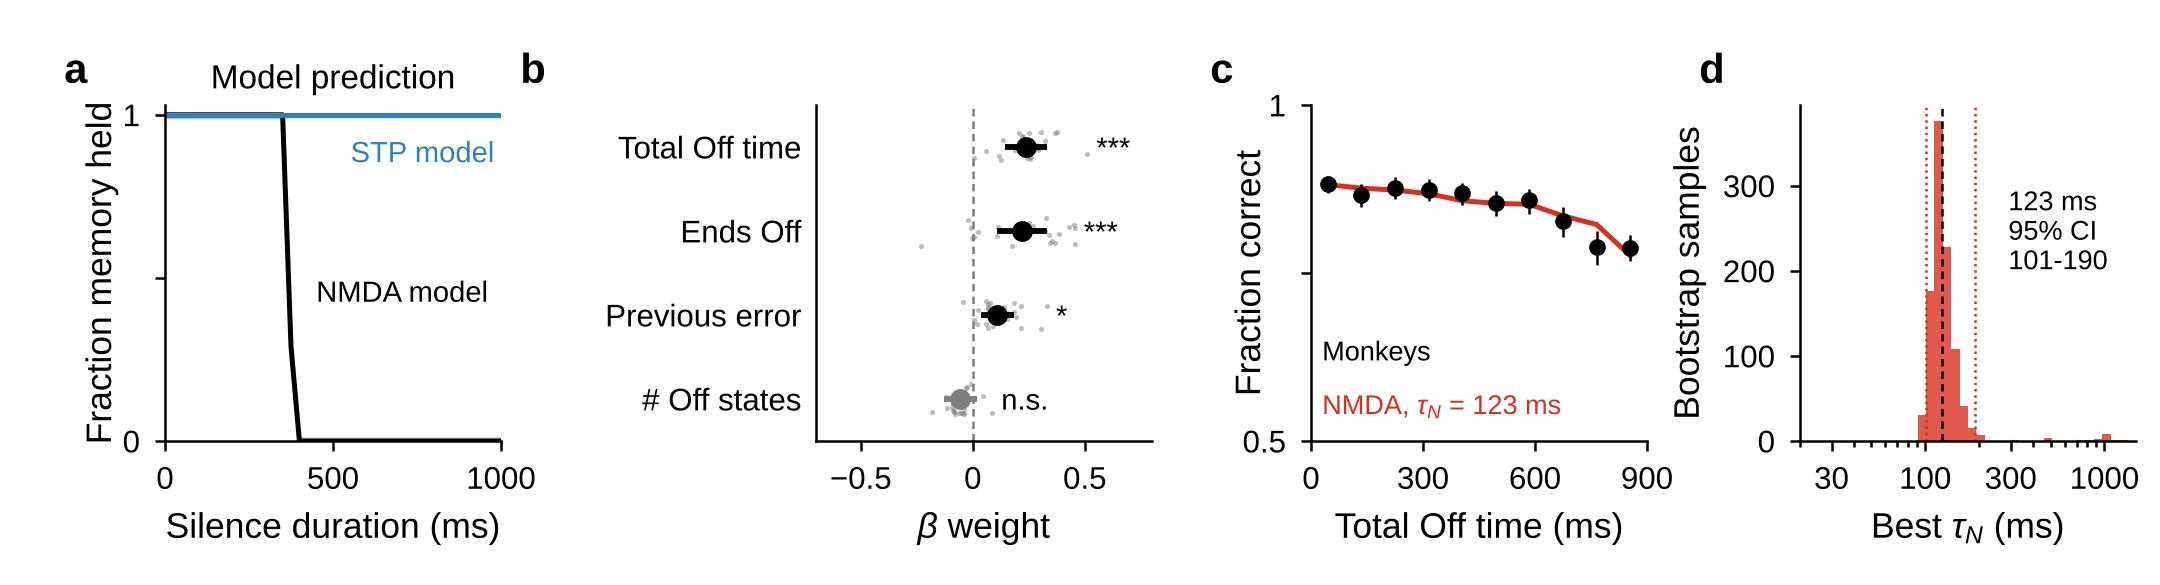
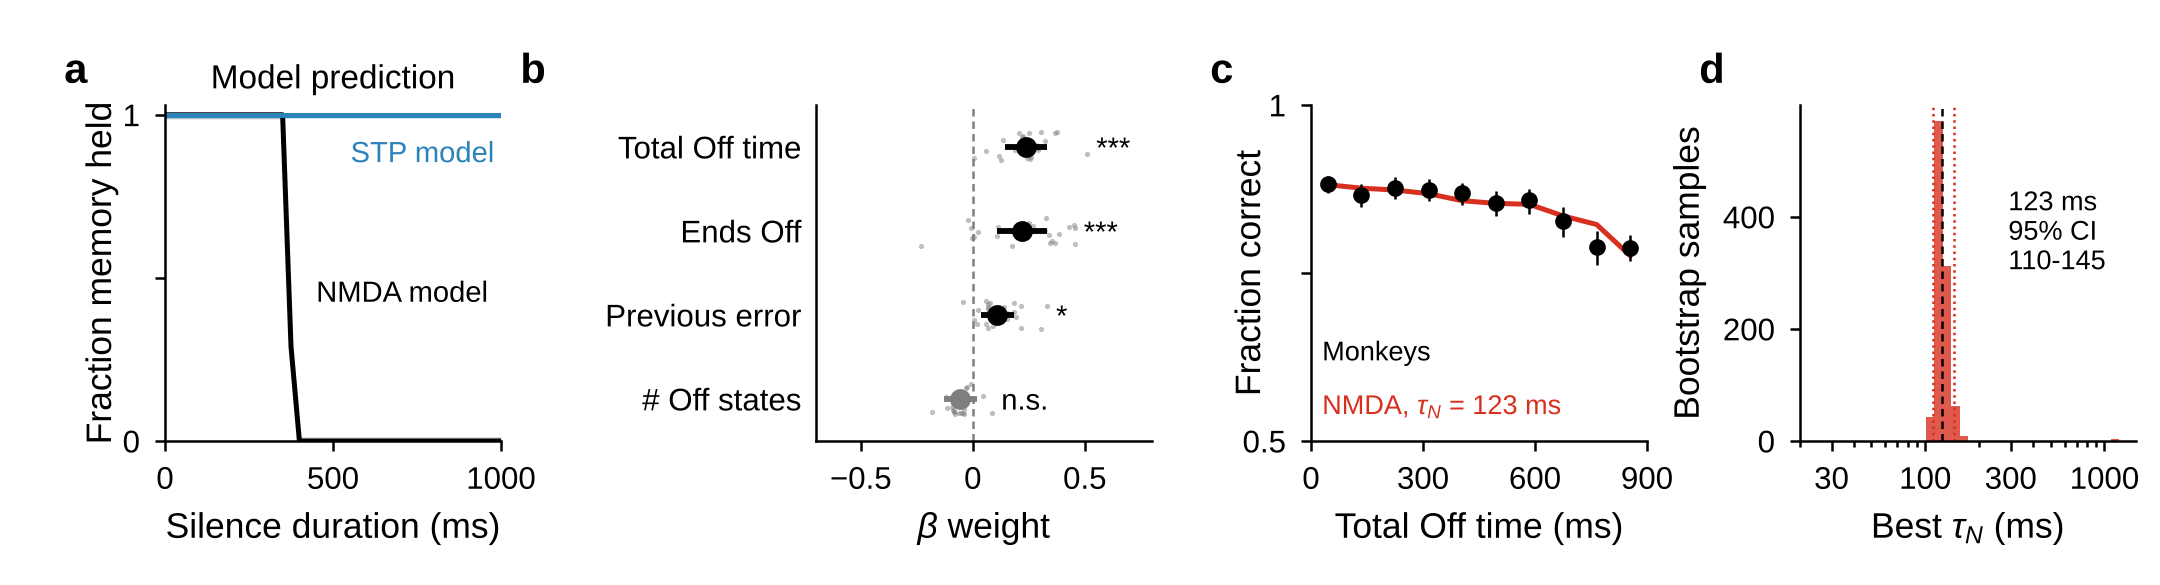
tau_N bootstrap: sessions resampled within each monkey (95% interval 110-145 ms)
Claude-Session: https://claude.ai/code/session_01HJhqhqLJaznzym3K7Wmdck

diff --git a/nmdaint/behaviour.py b/nmdaint/behaviour.py
@@ -13,7 +13,8 @@ per within-session SD, the others held fixed. Tests: likelihood ratio (dropping 
 fit_tau: the NMDA time constant fitted to the pooled performance against the fraction of the delay Off. Model:
 P(memory held | Off fraction) from simulations with each tau_N (memory.tau_sweep), in 10 bins of the Off
 fraction, interpolated in log tau; P(correct) = p0 x [P(held) + G x (1 - P(held))], a lost memory being a guess
-among the 8 cues (G = 1/8). Maximum likelihood over tau_N and p0; bootstrap over sessions.
+among the 8 cues (G = 1/8). Maximum likelihood over tau_N and p0; bootstrap over sessions, resampled within each
+monkey.
 """
 import numpy as np
 import pandas as pd
@@ -150,25 +151,29 @@ def held_curves(taus, held, n):
 
 
 def best_tau(k, n, Hf):
-    """Indices of the best (tau, p0) and the log-likelihood over (tau, p0), for k correct of n trials per bin."""
+    """Indices of the best (tau, p0) for k correct of n trials per bin; k, n may be stacked (resamples x NB)."""
     p = np.clip(P0[None, :, None] * (Hf + G * (1 - Hf))[:, None, :], 1e-9, 1 - 1e-9)
-    ll = (k * np.log(p) + (n - k) * np.log(1 - p)).sum(-1)
-    i, j = np.unravel_index(np.argmax(ll), ll.shape)
-    return i, j, ll
+    ll = np.tensordot(np.atleast_2d(k), np.log(p), (1, 2)) + np.tensordot(np.atleast_2d(n - k), np.log(1 - p), (1, 2))
+    best = ll.reshape(len(ll), -1).argmax(1)
+    i, j = np.unravel_index(best, ll.shape[1:])
+    return (i, j) if np.ndim(k) > 1 else (i[0], j[0])
 
 
 def fit_tau(trials, fine, Hf, seed=0):
-    """Best tau_N and p0 for all trials pooled, the bootstrap distribution of tau_N over sessions, and the data per
-    Off bin (correct k, trials n)."""
+    """Best tau_N and p0 for all trials pooled, the bootstrap distribution of tau_N (sessions resampled within each
+    monkey, so that every resample keeps each monkey's number of sessions), and the data per Off bin (correct k,
+    trials n)."""
     b, c, s = bins(trials.frac_off.values), trials.correct.values, trials.session.values
     names = np.unique(s)
     ks = np.array([np.bincount(b[s == x], weights=c[s == x], minlength=NB) for x in names])
     ns = np.array([np.bincount(b[s == x], minlength=NB) for x in names])
     k, n = ks.sum(0), ns.sum(0)
-    i, j, _ = best_tau(k, n, Hf)
+    i, j = best_tau(k, n, Hf)
+    monkey = trials.groupby('session').monkey.first()[names].values
+    groups = [np.flatnonzero(monkey == m) for m in np.unique(monkey)]
     rng = np.random.default_rng(seed)
-    boot = np.array([fine[best_tau(ks[idx].sum(0), ns[idx].sum(0), Hf)[0]]
-                     for idx in (rng.integers(0, len(names), len(names)) for _ in range(N_BOOT))])
+    idx = np.array([np.concatenate([rng.choice(g, len(g)) for g in groups]) for _ in range(N_BOOT)])
+    boot = np.concatenate([fine[best_tau(ks[ix].sum(1), ns[ix].sum(1), Hf)[0]] for ix in np.array_split(idx, 20)])   # in chunks
     return dict(tau=fine[i], p0=P0[j], held=Hf[i], boot=boot, k=k, n=n)
 
 

diff --git a/BUGS.md b/BUGS.md
@@ -10,10 +10,10 @@ Google Doc; those items are no longer listed here.
 
 A1. **Two gains for the same read-out.** Every figure uses the all-units gain of the reference calibration
    (`readout.reference`, 2,112 trials, seed 1): 0.0512. The tau sweep behind Fig. 3c, d uses its own calibration
-   (`memory.sweep_gain`, 1,056 trials, seed 0): 0.0487, as in the paper. With 0.0512 the fit gives tau_N 125 ms
-   instead of 123 ms and the bootstrap interval 102-932 ms instead of 101-190 ms: its upper end is fragile, as 1.8%
-   (with 0.0512, 3.3%) of the resamples find no decline of performance with time Off and go to the flat end of the
-   tau grid.
+   (`memory.sweep_gain`, 1,056 trials, seed 0): 0.0487, as in the paper. The bootstrap of tau_N resamples sessions
+   within each monkey (95% interval 110-145 ms). With sessions resampled regardless of monkey, as originally, the
+   upper end was fragile (190 ms with gain 0.0487, 932 ms with 0.0512), as about 2-3% of the resamples found no
+   decline of performance with time Off.
 A2. **Off threshold.** The recordings use z < 0.8416 (P > 0.20 exactly); the rate model and the spiking network use
    z < 0.84 (`recordings.OFF_Z`, `onoff.OFF_Z`).
 A3. **State-length histograms.** The data's table puts states of exactly 600 ms in the 580-600 ms bin, the model in
@@ -46,7 +46,7 @@ C3. **tau_N is fixed at 150 ms** (`ratemodel.FIXED`; the fit has six free parame
 | pre-cue z autocorrelation at 200 ms | `RHO` of the read-out | all, top 20: 0.346, 0.089, identical; random 20: 0.111 instead of 0.107 (all random draws averaged instead of the first); now also computed for top/random 5 and 50, which used the 20-unit values |
 | GLMM fixed effects and session weights | `joint_glmm.csv`, `joint_glmm_session_weights.csv` | equal to 1e-6 (optimiser) |
 | tau sweep, 17 tau_N x 30,000 trials | `figures/off_vs_memory/nmda/tau_sweep/*.npz` | identical |
-| tau_N fit and bootstrap | `fig3_behaviour_tau.py` | 123 ms, 95% interval 101-190 ms, identical |
+| tau_N fit and bootstrap | `fig3_behaviour_tau.py` | 123 ms, identical; the 95% interval is 110-145 ms with sessions resampled within monkey (101-190 ms, identical, with the original resampling of all sessions) |
 | rate model, NMDA and STP | `paper_model/model.py`, `model_ours_stp.py` | bit-identical traces |
 | model read-out, all populations, 4 conditions | `readout.evaluate`, `control_no_dips.py`, `fig_unit_sets_nmda_stp.py` | identical states and statistics |
 | single-dip test, both models | `single_dip_readout_trials.npz` | identical |
